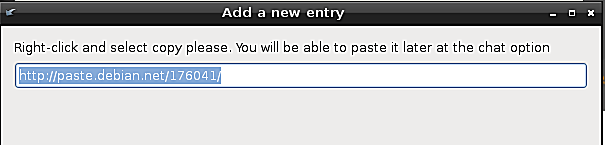
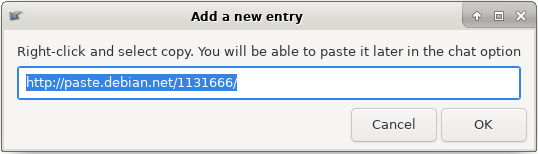
share_log: Updated and completed documentation to 2019 gui.

diff --git a/plugins/share_log/local_doc.html b/plugins/share_log/local_doc.html
@@ -12,13 +12,15 @@ Choose your language.
 </ul>
 
 <a name="english">Share log - Rescapp - Documentation</a>
-
+<p><b>Warning</b>: This option requires a working Internet connection.</p>
+<p></p>
 <ul>
   <li>
   <b>Step 1</b><p></p>Rescapp searches for log files that have been generated by other Rescapp options.
   </li>
   <li>
-  <b>Step 2</b><p></p>You are shown a list, of the files found:<p></p><i>Please choose a log file</i> 
+  <b>Step 2</b><p></p>You are shown a list, of the files found:<p></p><i>Please choose a log file</i><p></p>
+As you can see you choose between "_log.txt" and "_simple_log.txt" files. By default share "_log.txt" files.
   </li>
 <p></p><IMG SRC="images/share_log_001_log.png"><p></p>
   <li>
@@ -30,7 +32,27 @@ Choose your language.
 <p></p><IMG SRC="images/share_log_002_pastebin.png"><p></p>
 <p></p><IMG SRC="images/share_log_003_copy.png"><p></p>
   <li>
-  <b>Step 5</b><p></p>You are supposed to manually, go to the Chat option, (originally under the Support menu) and paste the copied url if you want help. But please be sure that someone is willing to help you before doing it.
+  <b>Step 5</b><p></p>You are informed about the share log process.<p></p>You either get:<p></p>
+  <div style="padding: 5px; border: 6px solid green; margin: 7px;">
+  <p>
+  <b>
+  <IMG SRC="../not-documented/images/dialog-ok-apply.png">
+  [SUCCESS] The log file was shared OK! :)
+  </b>
+  </p>
+  </div>
+  or
+  <div style="padding: 5px; border: 6px solid green; margin: 7px;">
+  <p>
+  <b>
+  <IMG SRC="../not-documented/images/dialog-error.png">
+  [ERROR] The log file sharing went wrong! :(
+  </b>
+  </p>
+  </div>
+  </li>
+  <li>
+  <b>Step 6</b><p></p>Optionally you can run the Chat option, (under the Support category in the main menu) and paste the copied url if you want help.<p></p> But please be sure that someone is willing to help you before doing it.
   </li>
 </ul>
 
